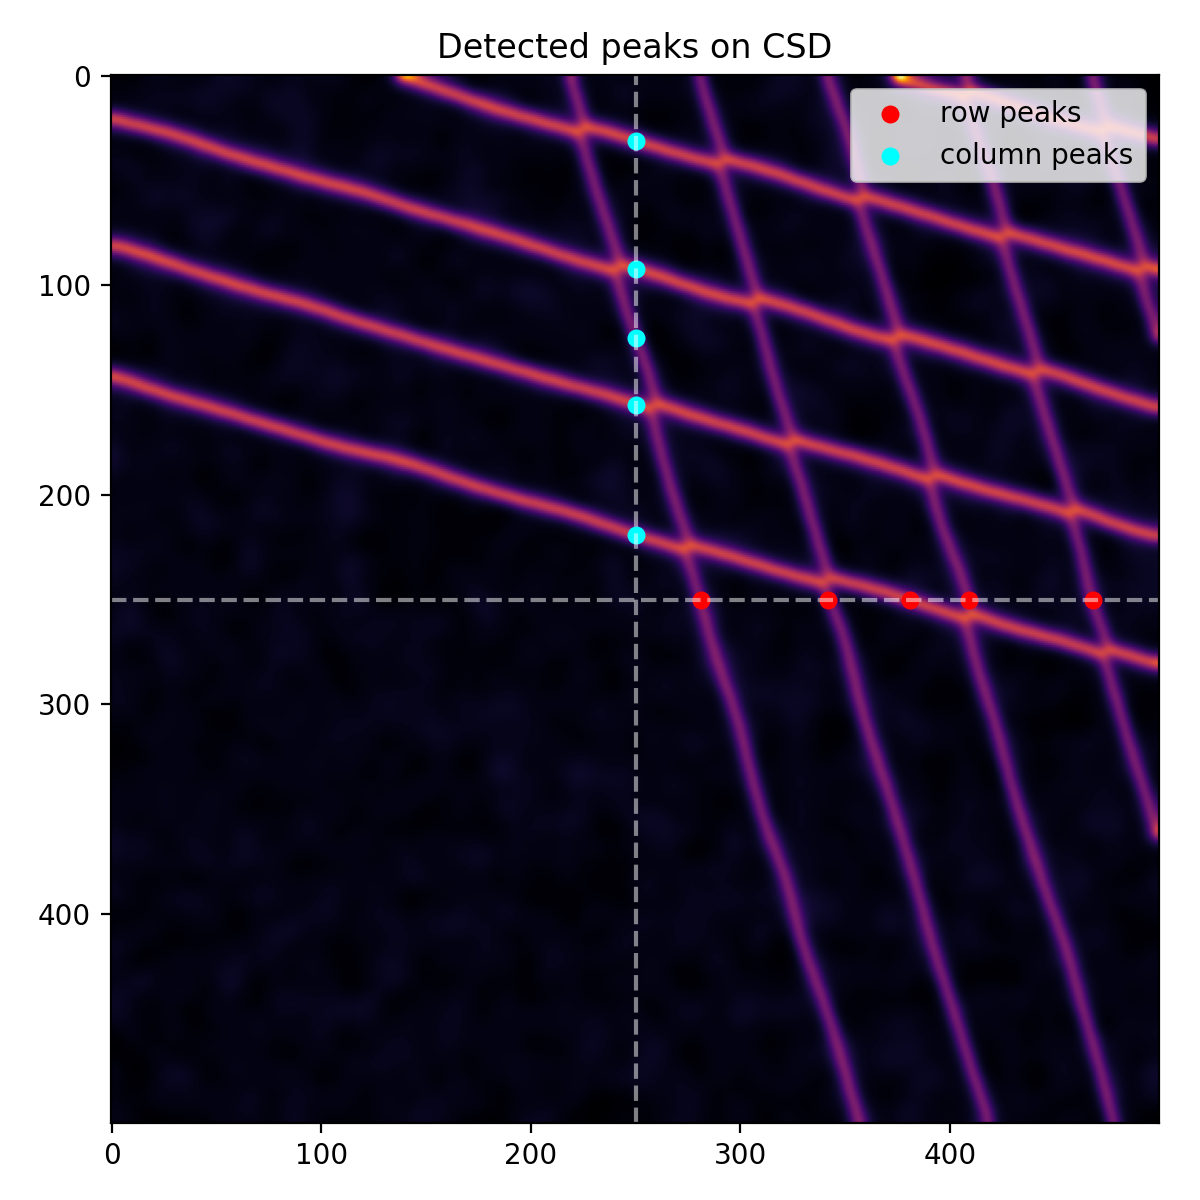
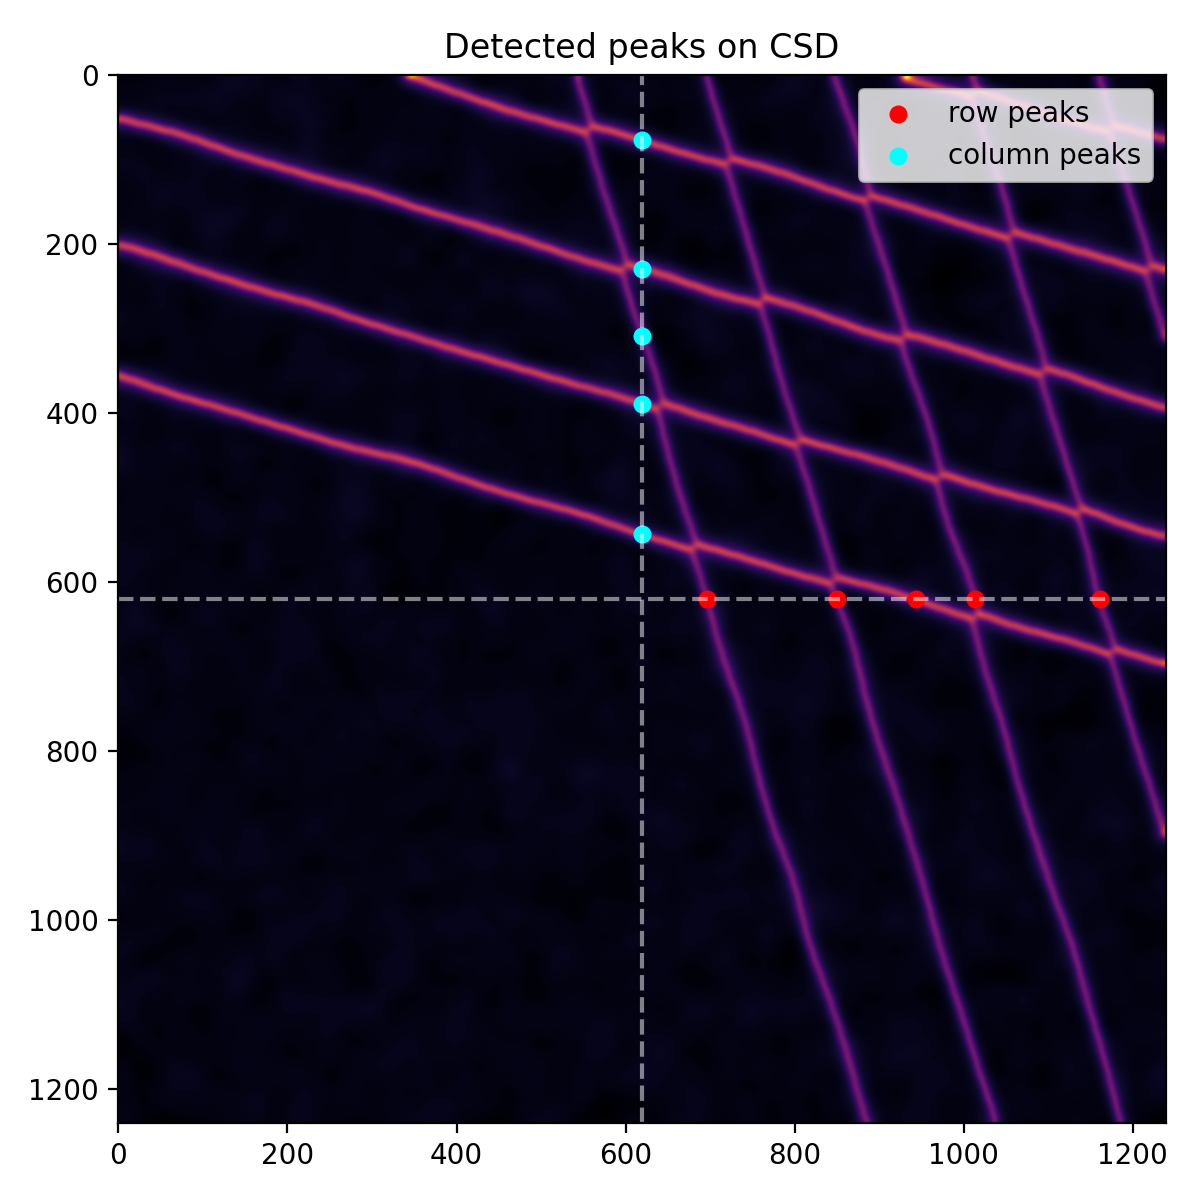
added more slices

diff --git a/1D/1D_extraction.py b/1D/1D_extraction.py
@@ -137,3 +137,46 @@ plt.savefig(os.path.join(out_folder, "detections_overlay.png"), dpi=200)
 plt.close()
 
 print("Saved overlay with detected peaks")
+
+
+
+
+
+
+# ── MULTI-SLICE DETECTION (NEXT STEP) ───────────────────────
+
+all_points = []
+
+# choose slices (avoid edges)
+row_indices = np.arange(100, h-100, 20)
+
+for r in row_indices:
+    signal = img_smoothed[r, :]
+
+    peaks, _ = find_peaks(signal, prominence=0.05, distance=15)
+
+    for p in peaks:
+        all_points.append((p, r))  # (x, y)
+
+all_points = np.array(all_points)
+
+print(f"Total detected points from multi-slice: {len(all_points)}")
+
+
+# ── visualize multi-slice points ────────────────────────────
+fig6, ax = plt.subplots(figsize=(6, 6))
+
+ax.imshow(img_smoothed, cmap="inferno")
+
+if len(all_points) > 0:
+    ax.scatter(all_points[:, 0], all_points[:, 1],
+               s=10, color="cyan", label="multi-slice peaks")
+
+ax.set_title("Multi-slice detected points")
+ax.legend()
+
+plt.tight_layout()
+plt.savefig(os.path.join(out_folder, "multi_slice_points.png"), dpi=200)
+plt.close()
+
+print("Saved multi-slice visualization")

diff --git a/CSD_gen_QArray.py b/CSD_gen_QArray.py
@@ -105,7 +105,27 @@ for raw_state in np.unique(n1 * 100 + n2):
 
 # save the raw clean array without the matplotlib axes for the slicing test
 clean_path = os.path.join(out_dir, "csd_clean.png")
-plt.imsave(clean_path, signal_display, cmap="inferno", origin="lower")
+
+fig_clean, ax_clean = plt.subplots(figsize=(7, 6.5))
+
+ax_clean.imshow(
+    signal_display,
+    extent=[V_MIN, V_MAX, V_MIN, V_MAX],
+    origin="lower",
+    aspect="equal",
+    interpolation="bilinear",
+    cmap="inferno",
+    vmin=0.0,
+    vmax=1.0,
+)
+
+# remove EVERYTHING visual
+ax_clean.axis("off")
+
+fig_clean.tight_layout()
+fig_clean.savefig(clean_path, dpi=200, bbox_inches="tight", pad_inches=0)
+plt.close(fig_clean)
+
 print(f"saved clean array: {clean_path}")
 
 # plot the final figure with all the matplotlib styling
